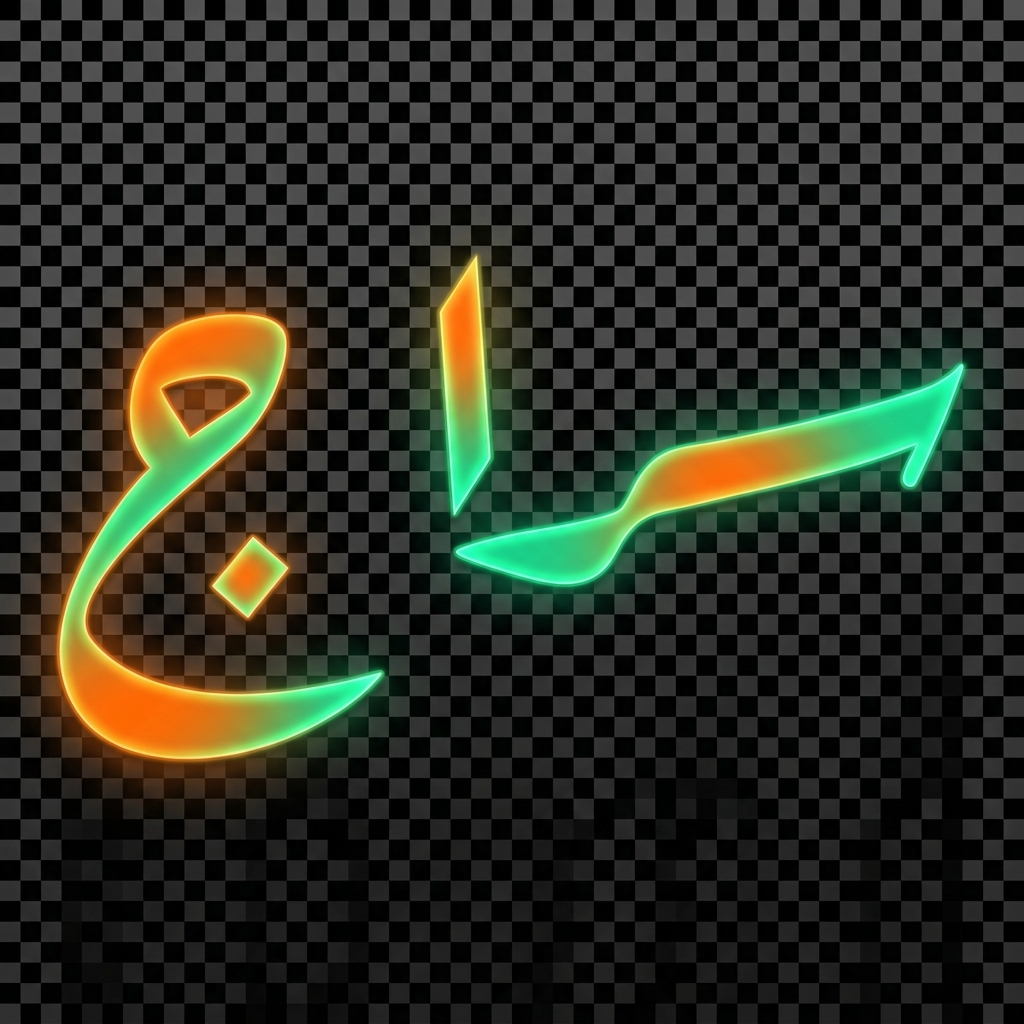
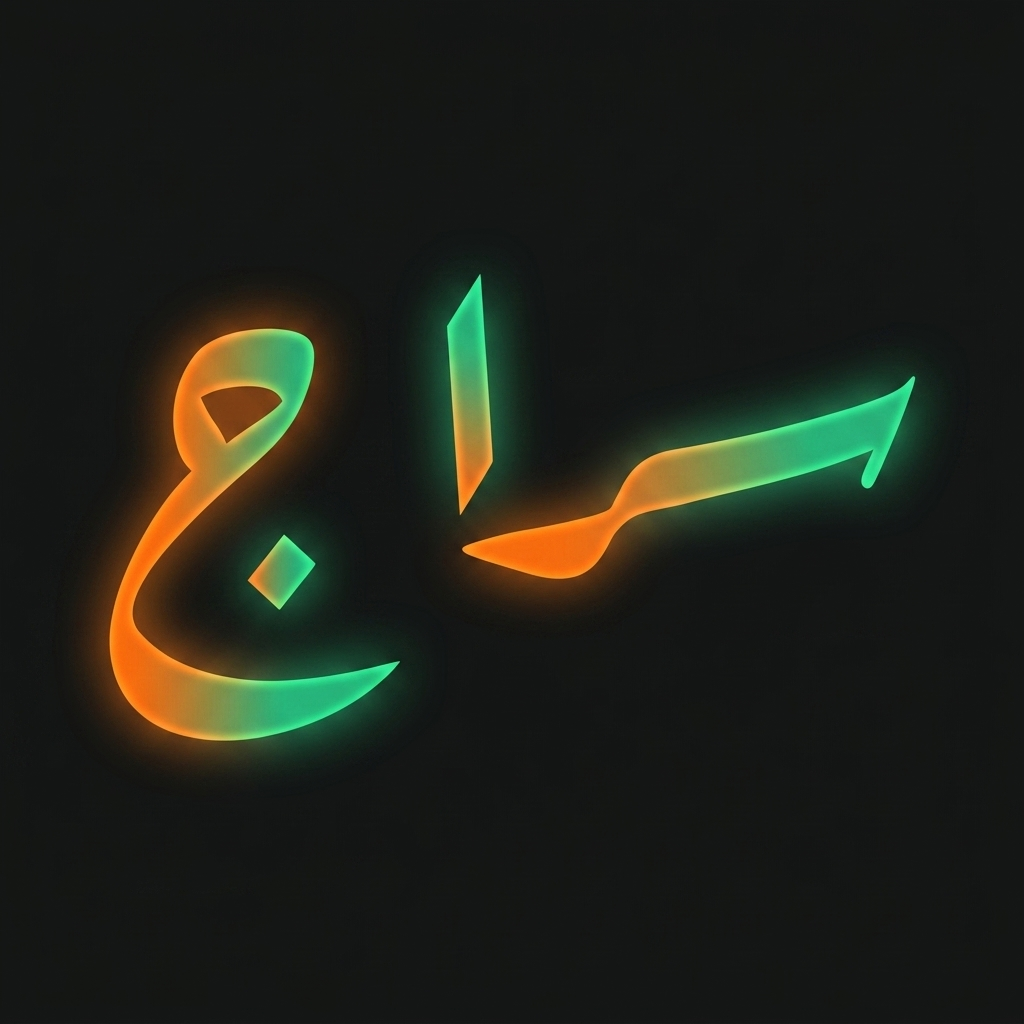
تعديل خلفية الشعار وحاوية الأيقونة لتكون مطابقة للون خلفية التطبيق مع إضافة إطار مضيء لإعطاء مظهر احترافي

diff --git a/index.html b/index.html
@@ -92,8 +92,8 @@
     .app-head{display:flex;align-items:center;justify-content:space-between;margin-bottom:18px;padding:0 2px;}
     .brand{display:flex;align-items:center;gap:11px;}
     .brand-mark{width:42px;height:42px;border-radius:14px;display:grid;place-items:center;
-      background:linear-gradient(150deg,rgba(249,115,22,.22),rgba(5,150,105,.16));
-      border:1px solid var(--stroke2);position:relative;}
+      background:#121414;
+      border:1.5px solid rgba(249,115,22,0.3);position:relative;}
     .brand-mark::after{content:"";position:absolute;inset:-6px;border-radius:18px;
       background:radial-gradient(circle,var(--orange-glow),transparent 70%);filter:blur(9px);opacity:.7;z-index:-1;}
     .brand-mark svg{width:23px;height:23px;}
@@ -356,7 +356,7 @@
 
     /* ===== LOGIN PAGE ===== */
     .login-container{width:100%;max-width:360px;padding:24px;margin:auto;text-align:center;display:flex;flex-direction:column;align-items:center;justify-content:center;min-height:100vh;box-sizing:border-box;animation:fade .4s ease;}
-    .login-logo{width:70px;height:70px;border-radius:20px;display:grid;place-items:center;background:linear-gradient(150deg,rgba(249,115,22,.22),rgba(5,150,105,.16));border:1px solid var(--stroke2);position:relative;margin-bottom:16px;}
+    .login-logo{width:70px;height:70px;border-radius:20px;display:grid;place-items:center;background:#121414;border:1.5px solid rgba(249,115,22,0.35);position:relative;margin-bottom:16px;}
     .login-logo::after{content:"";position:absolute;inset:-8px;border-radius:24px;background:radial-gradient(circle,var(--orange-glow),transparent 70%);filter:blur(10px);opacity:.8;z-index:-1;}
     .login-grid{display:grid;grid-template-columns:repeat(2,1fr);gap:13px;width:100%;margin-top:24px;}
     .login-card{padding:18px 12px;border-radius:22px;border:1px solid var(--stroke);cursor:pointer;transition:all 0.2s cubic-bezier(0.4, 0, 0.2, 1);display:flex;flex-direction:column;align-items:center;text-align:center;background:var(--glass);}